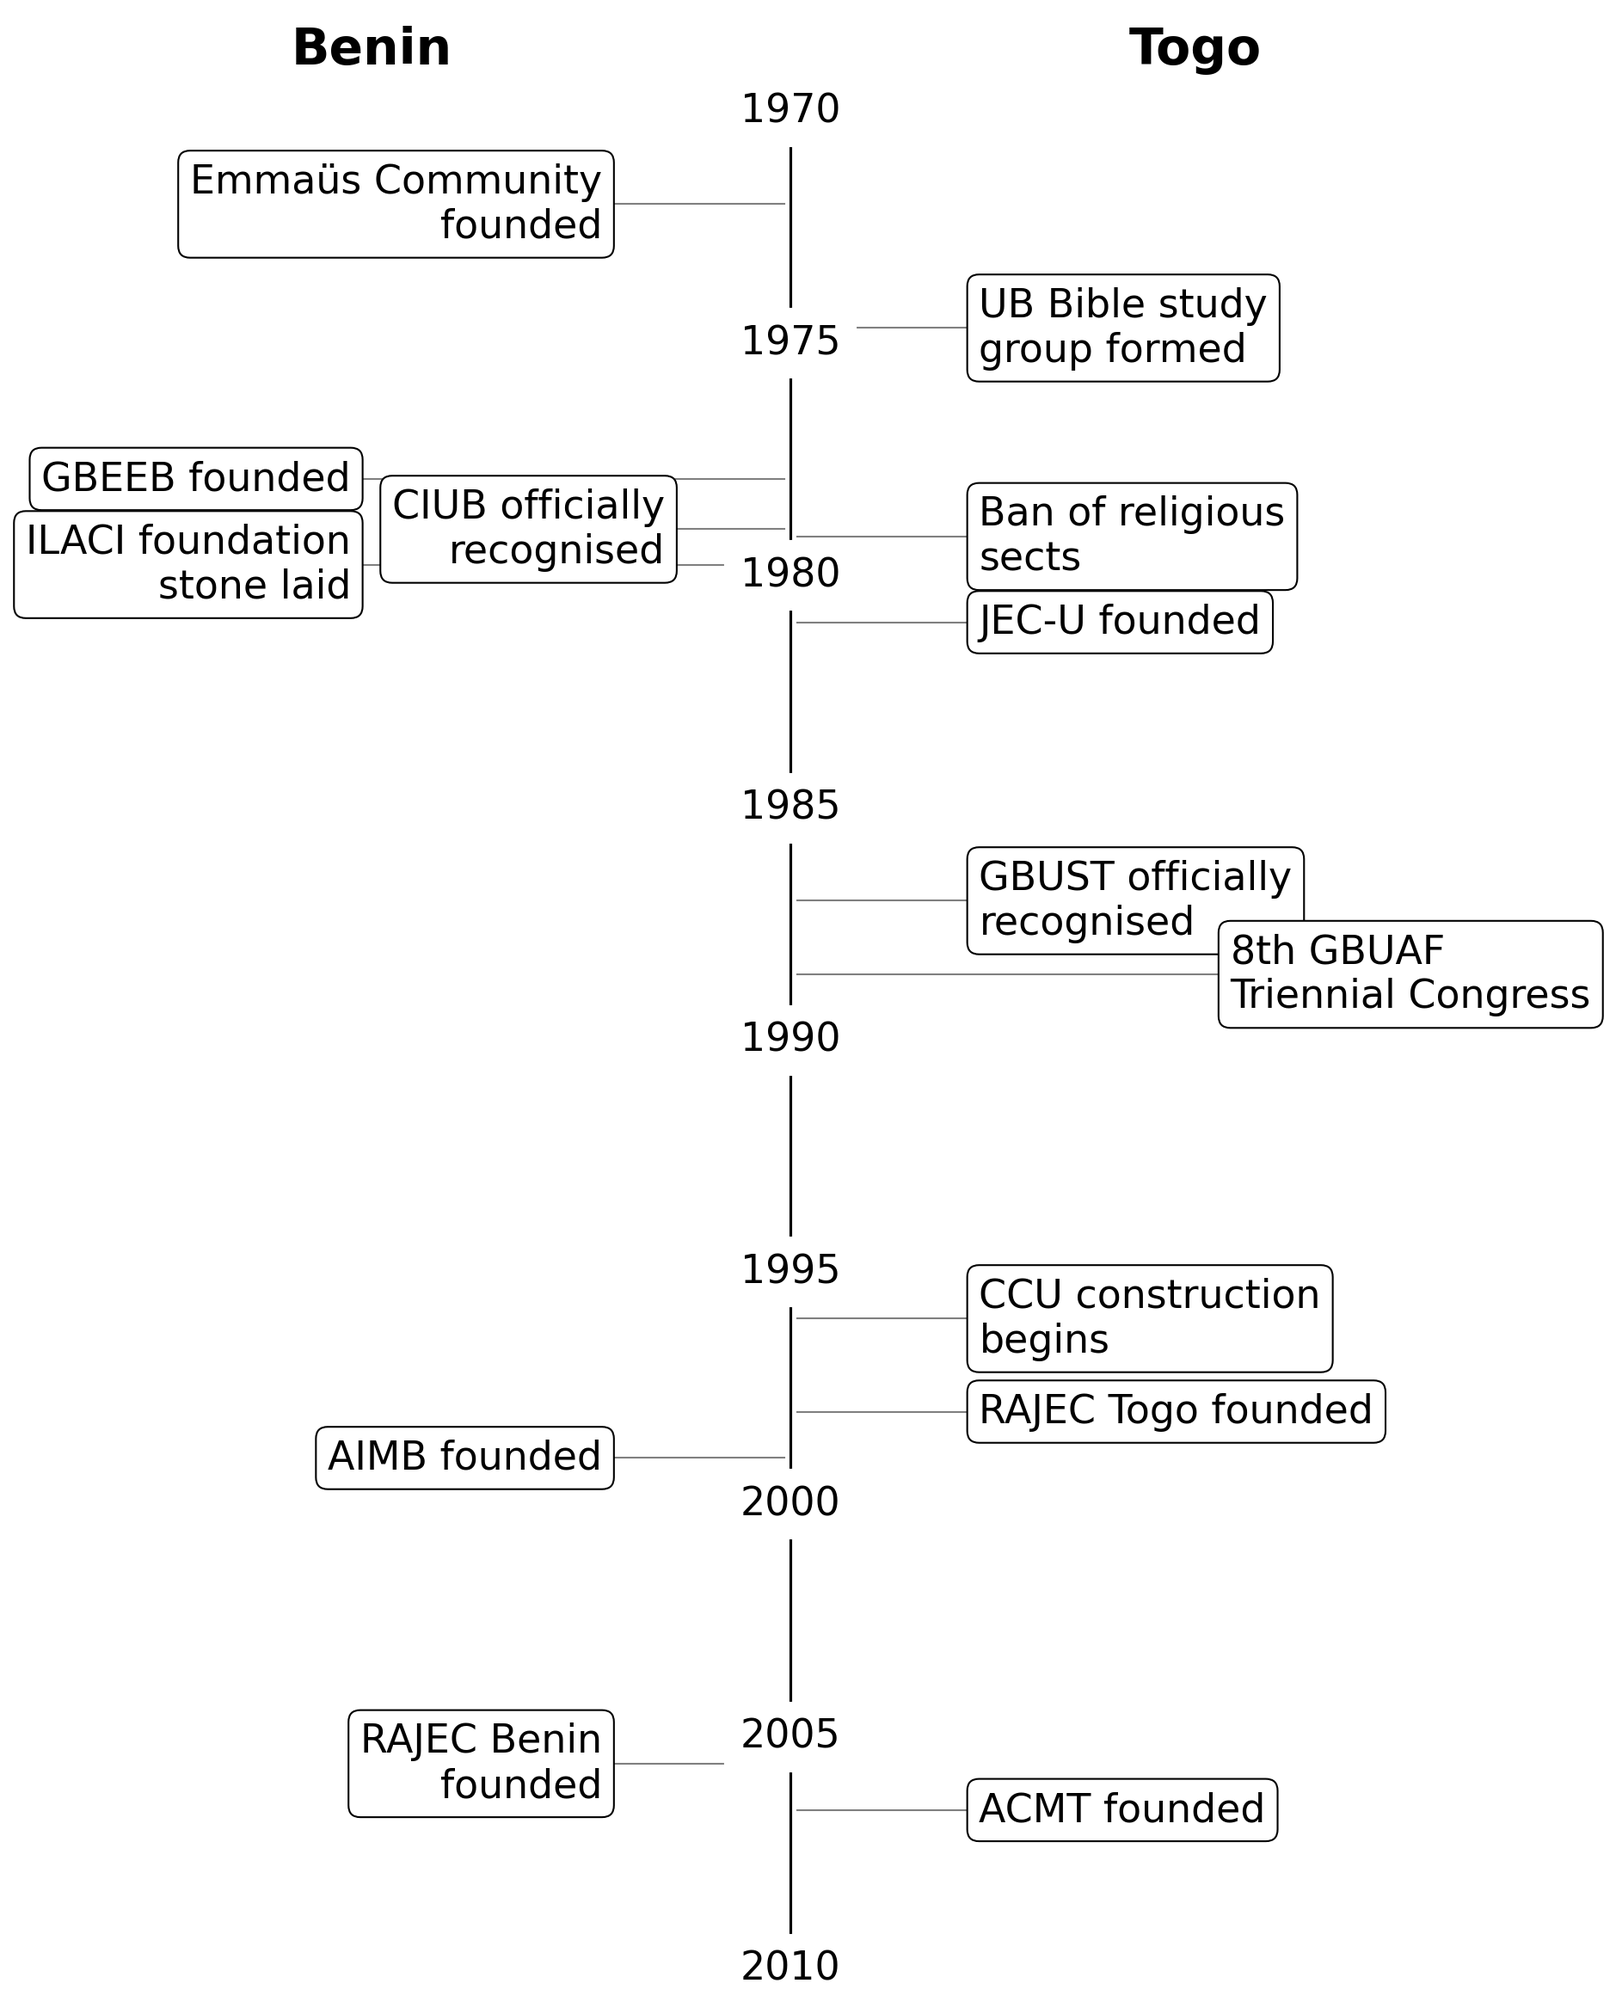
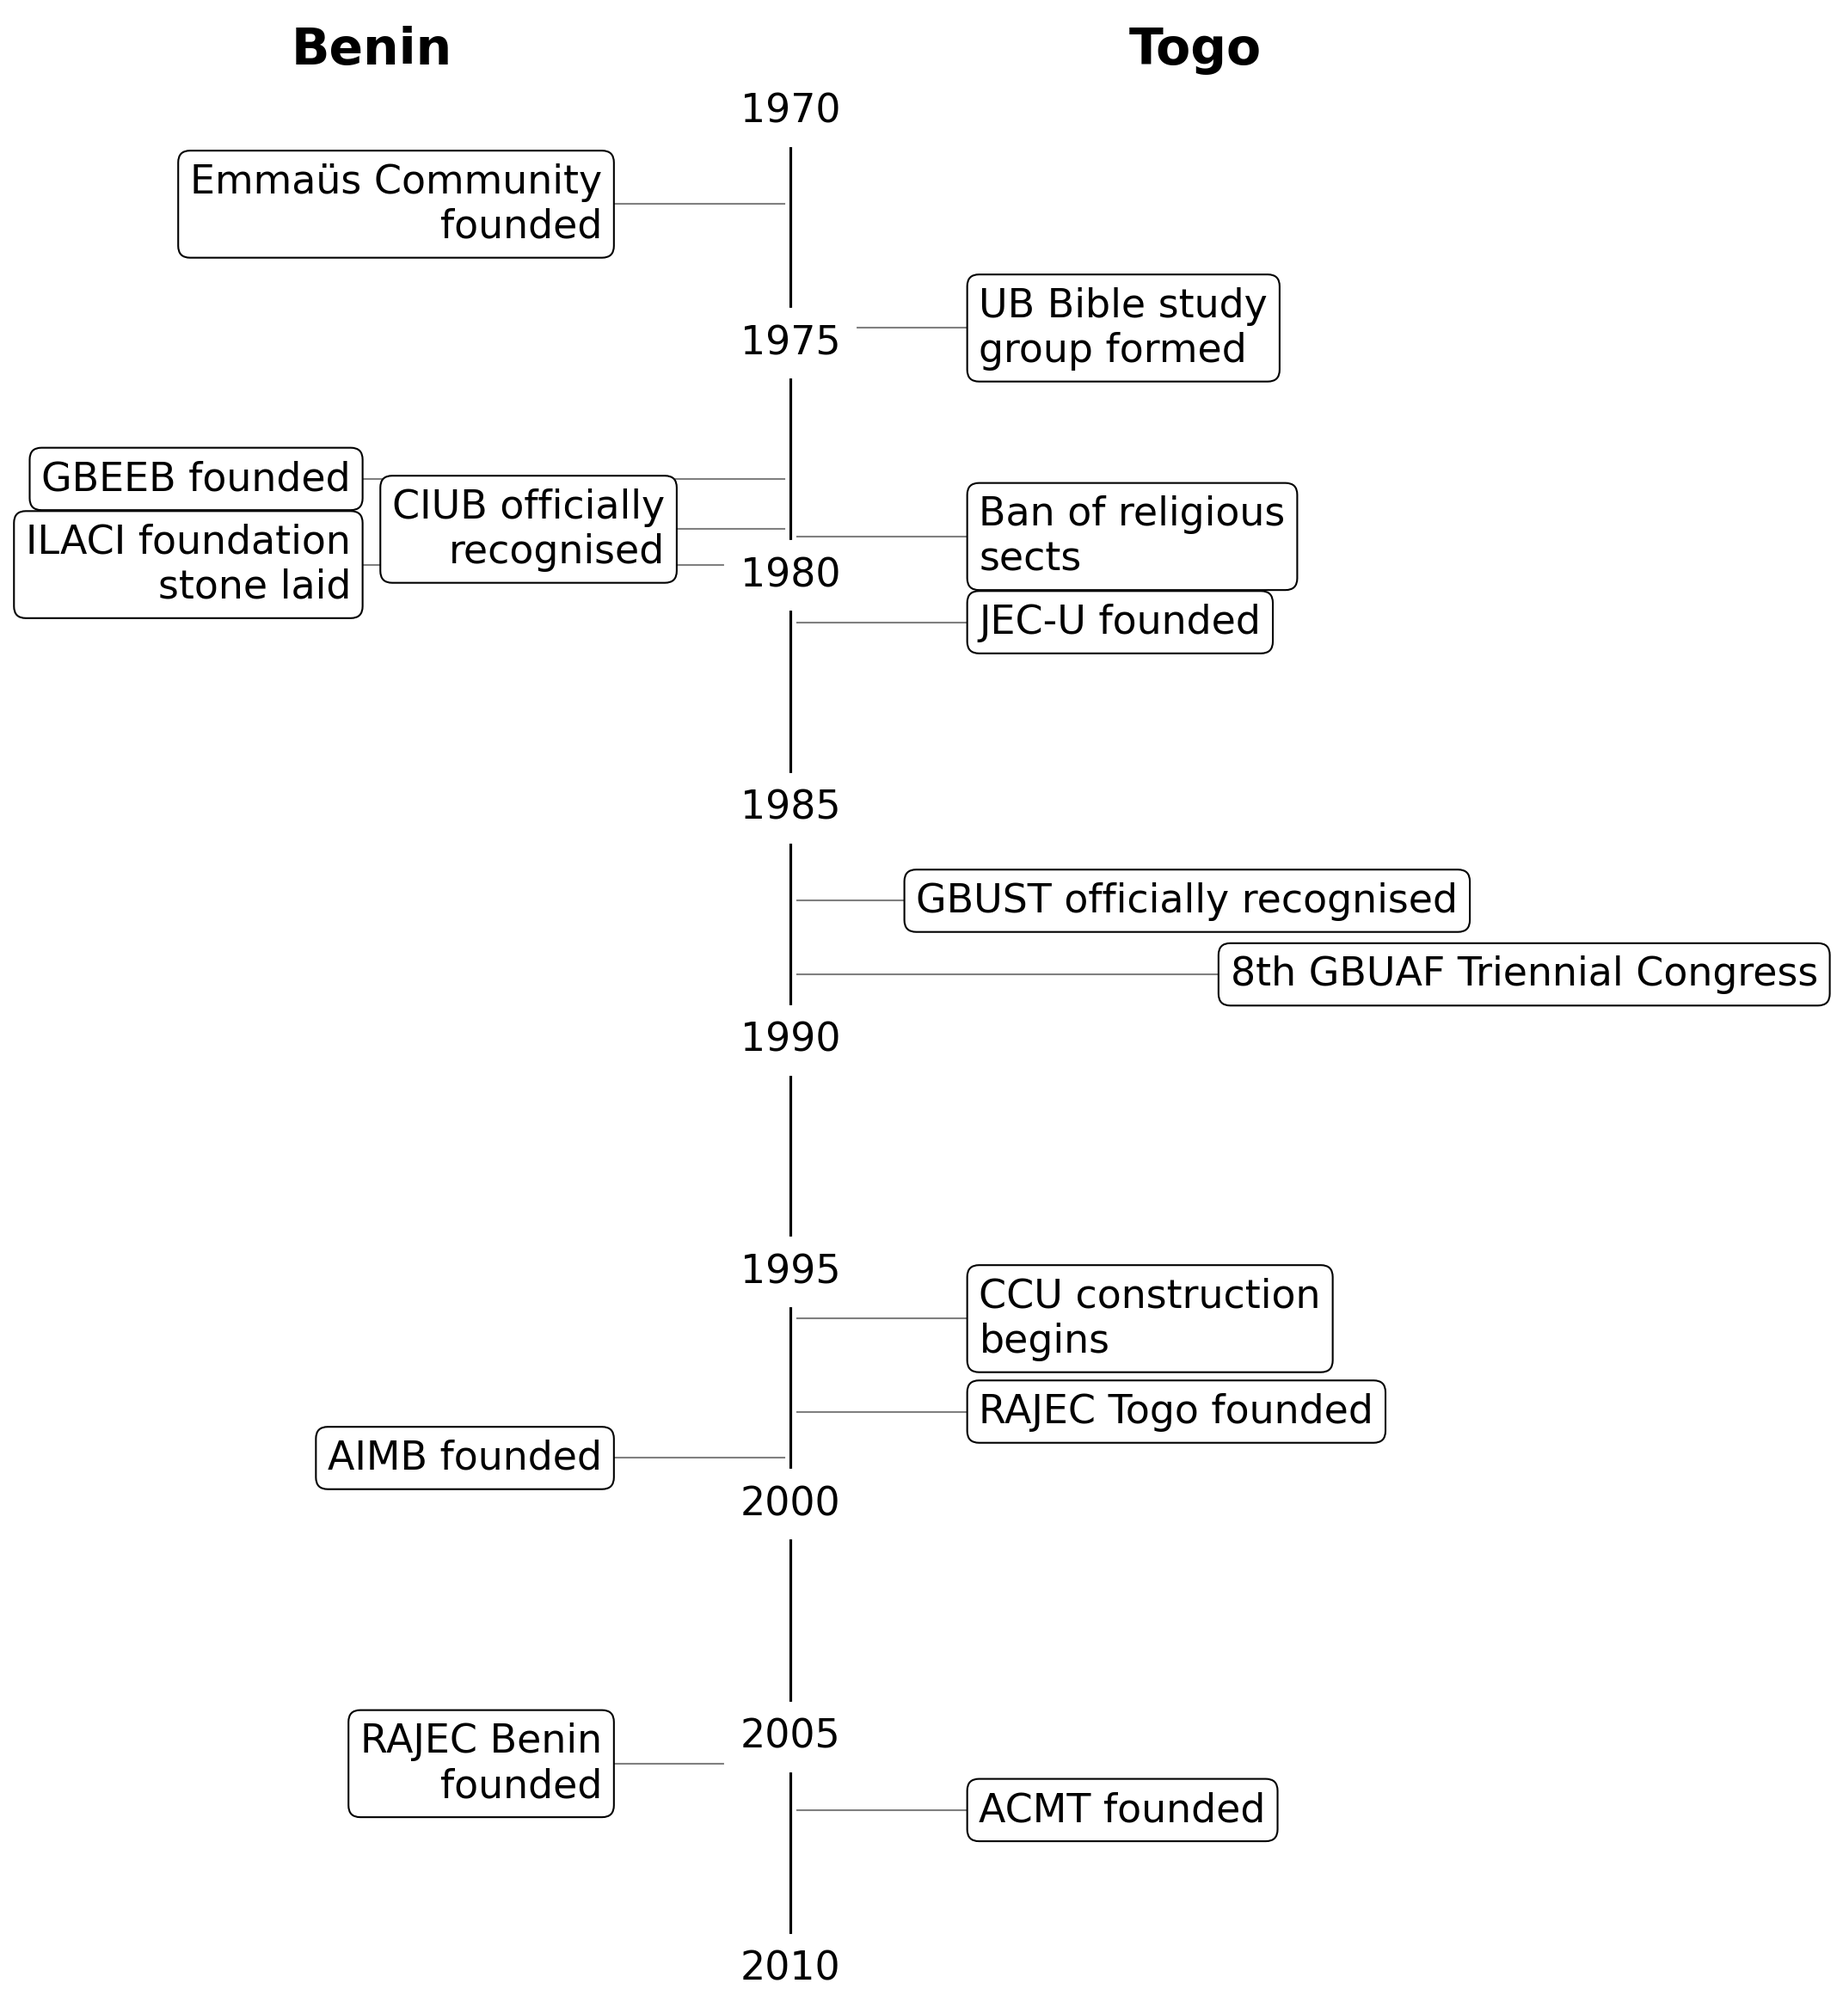
Update

diff --git a/Book_DeGruyter/Timeline/timeline.py b/Book_DeGruyter/Timeline/timeline.py
@@ -121,6 +121,13 @@ def create_timeline(data, categories, filename_base, manual_positions=None):
                fontsize=11, backgroundcolor='white')
 
     def wrap_text(text, max_width=18):  # Slightly reduced width to accommodate larger font
+        # Special cases for events that should stay on one line
+        no_wrap_events = [
+            "GBUST officially recognised",
+            "8th GBUAF Triennial Congress"
+        ]
+        if text in no_wrap_events:
+            return text  # Don't wrap these texts
         return '\n'.join(textwrap.wrap(text, width=max_width))
 
     # Initialize draggable_texts list
@@ -213,8 +220,9 @@ for item in data:
 manual_positions = {
     "GBEEB founded": 0.15,         # Far left
     "ILACI foundation\nstone laid": 0.15,  # Same position as GBEEB
-    "8th GBUAF\nTriennial Congress": 0.85,  # Far right
-    "CIUB officially\nrecognised": 0.40  # Slightly closer to center than default 0.35
+    "8th GBUAF Triennial Congress": 0.85,  # Far right, updated to match unwrapped text
+    "CIUB officially\nrecognised": 0.40,  # Slightly closer to center than default 0.35
+    "GBUST officially recognised": 0.60   # Single line
 }
 
 # Create Religion timeline with manual positions
